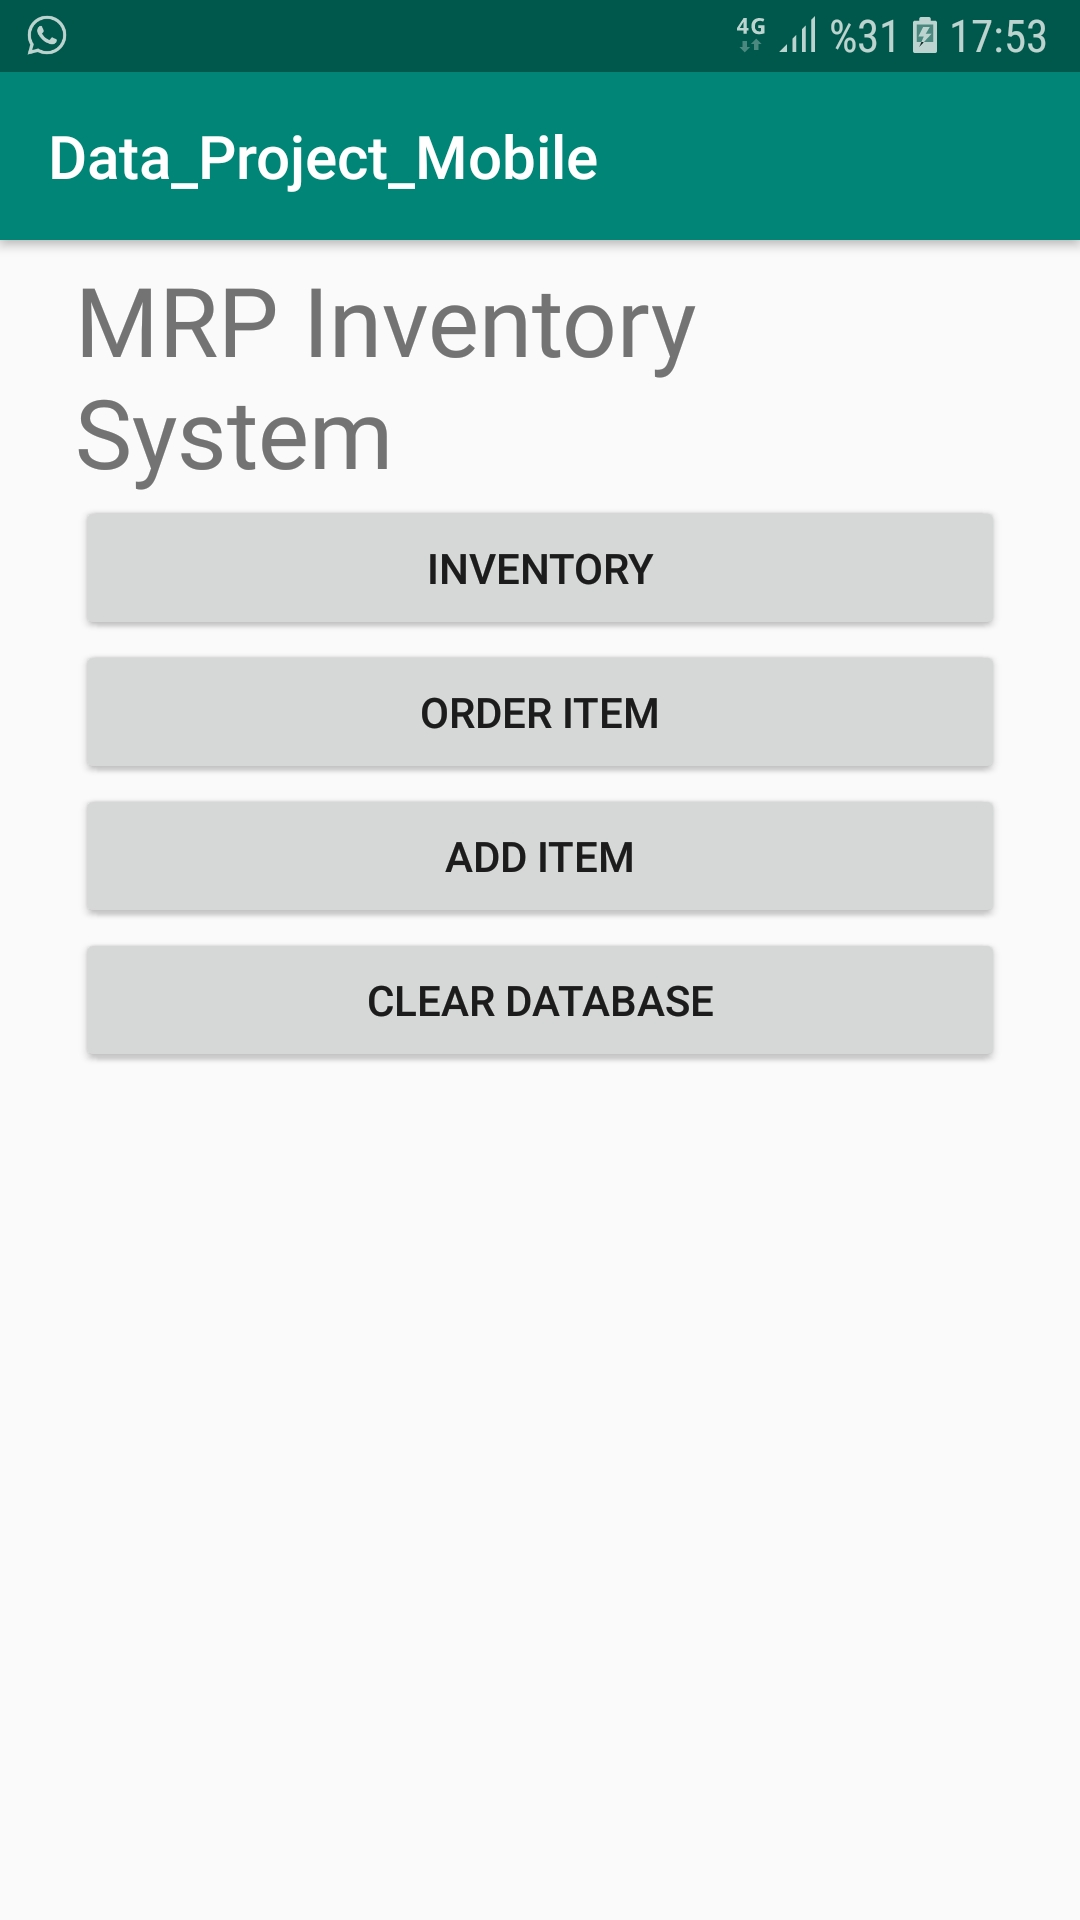
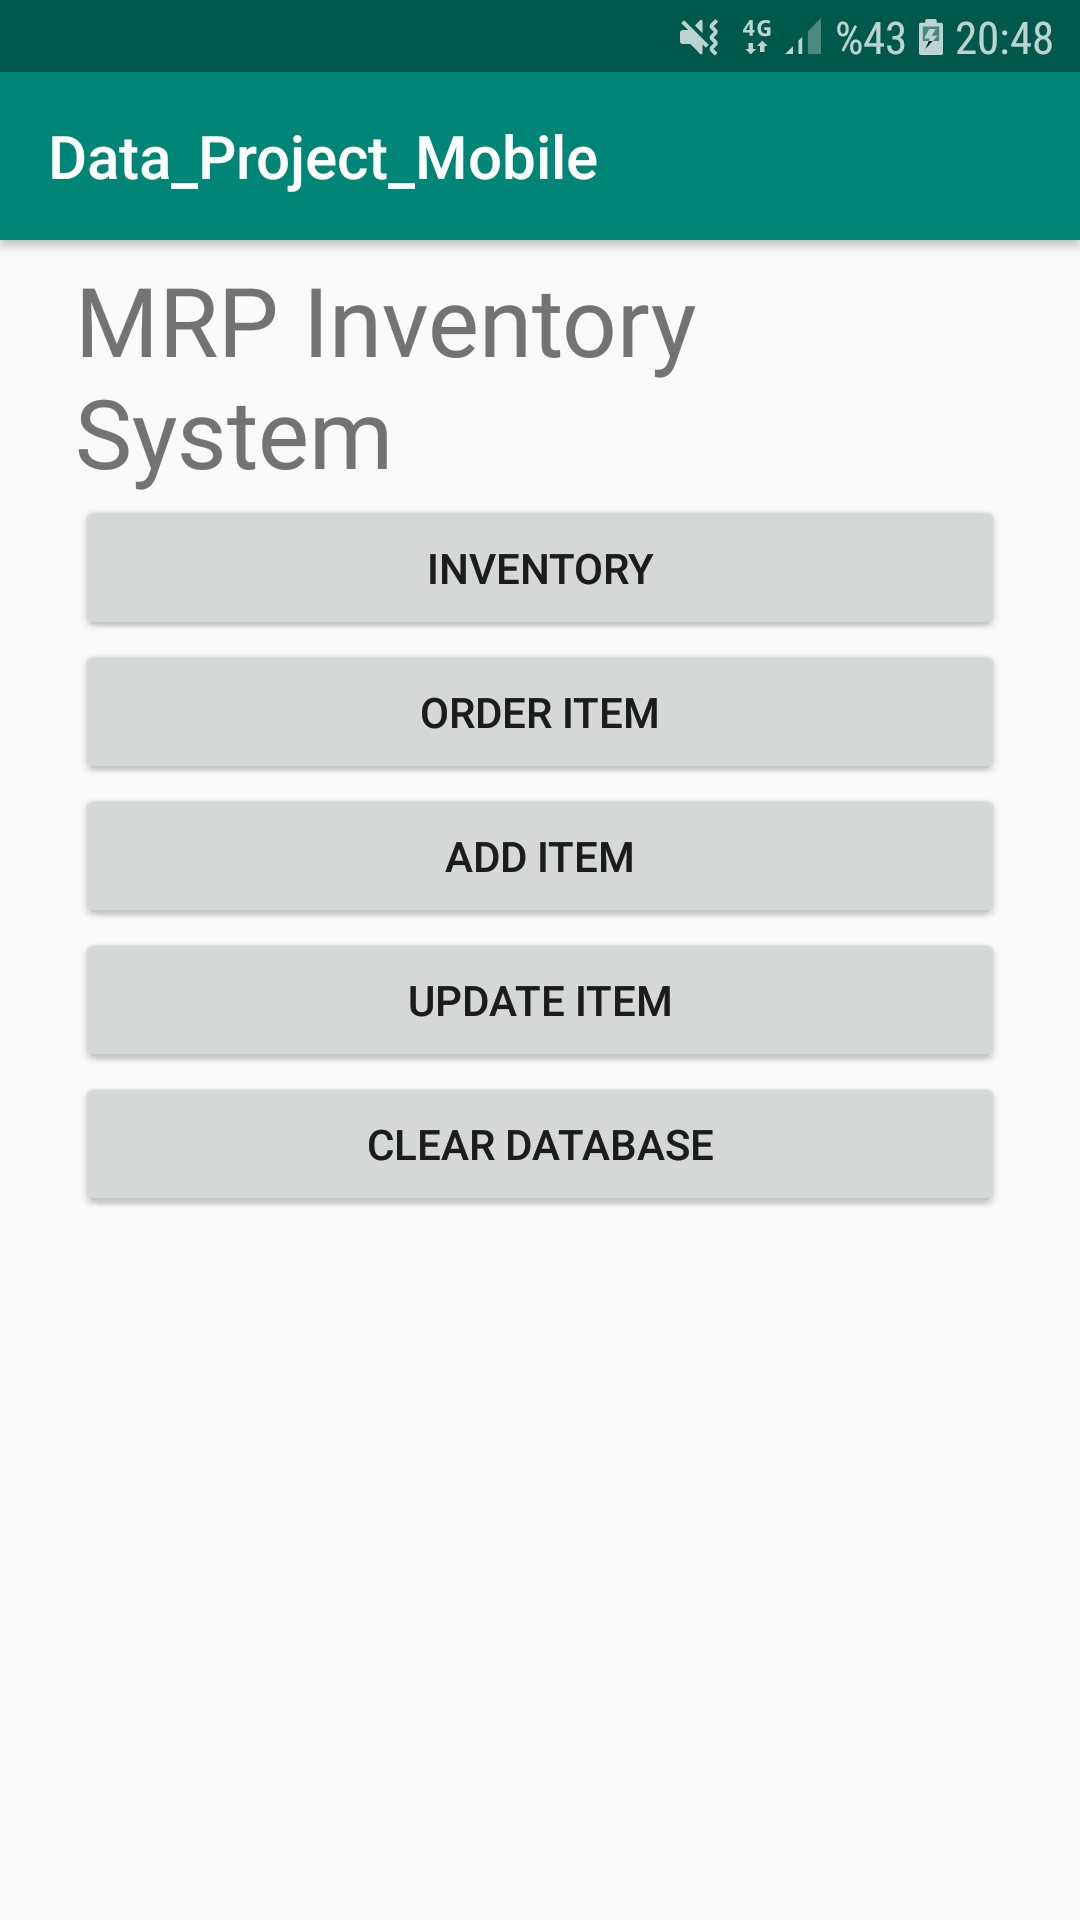
Update Page Added
You can update the item you want to update its features by entering the product item page.

diff --git a/Data_Project_Mobile/app/src/main/java/com/tohandesign/data_project_mobile/UpdItemActivity.java b/Data_Project_Mobile/app/src/main/java/com/tohandesign/data_project_mobile/UpdItemActivity.java
@@ -1,0 +1,118 @@
+package com.tohandesign.data_project_mobile;
+
+import androidx.appcompat.app.AppCompatActivity;
+
+import android.content.Intent;
+import android.os.Bundle;
+import android.util.Log;
+import android.view.View;
+import android.widget.AdapterView;
+import android.widget.ArrayAdapter;
+import android.widget.Button;
+import android.widget.EditText;
+import android.widget.Spinner;
+
+import java.util.List;
+
+public class UpdItemActivity extends AppCompatActivity {
+
+    DatabaseHelper db;
+
+    public Intent intent;
+
+    public Long MAIN_ITEM_ID;
+
+    public String itemIds[];
+
+
+    @Override
+    protected void onCreate(Bundle savedInstanceState) {
+        super.onCreate(savedInstanceState);
+        setContentView(R.layout.activity_upd_item);
+
+        db = new DatabaseHelper(getApplicationContext());
+
+
+        final EditText KEY_AON_HAND = (EditText)findViewById(R.id.KEY_AON_HAND);
+        final EditText KEY_SCH_RCP = (EditText)findViewById(R.id.KEY_SCH_RCP);
+        final EditText KEY_ARON_WEEK = (EditText)findViewById(R.id.KEY_ARON_WEEK);
+        final EditText KEY_LEAD_TIME = (EditText)findViewById(R.id.KEY_LEAD_TIME);
+        final EditText KEY_LS_RULE = (EditText)findViewById(R.id.KEY_LS_RULE);
+        final EditText KEY_REQUIRED = (EditText)findViewById(R.id.KEY_REQUIRED);
+
+
+        List<ProductItem> items = db.getAllItems();
+        // Array of choices
+        itemIds = new String[items.size()];
+        int i = 0;
+        for(ProductItem item : items) {
+            itemIds[i] = item.getItemId();
+            i++;
+        }
+
+        // Selection of the spinner
+        Spinner spinner = (Spinner) findViewById(R.id.KEY_ITEM_ID);
+
+        // Application of the Array to the Spinner
+        ArrayAdapter<String> spinnerArrayAdapter = new ArrayAdapter<String>(this,   android.R.layout.simple_spinner_item, itemIds);
+        spinnerArrayAdapter.setDropDownViewResource(android.R.layout.simple_spinner_dropdown_item); // The drop down view
+        spinner.setAdapter(spinnerArrayAdapter);
+
+
+
+
+        spinner.setOnItemSelectedListener(new AdapterView.OnItemSelectedListener() {
+            public void onItemSelected(AdapterView<?> parent, View view, int pos, long id) {
+
+                if(itemIds.length != 0) {
+                    MAIN_ITEM_ID = Long.parseLong((String) parent.getItemAtPosition(pos));
+                    ProductItem item = db.getItem(MAIN_ITEM_ID);
+                    KEY_AON_HAND.setText(String.valueOf(item.getAmountOnHand()));
+                    KEY_SCH_RCP.setText(String.valueOf(item.getScheduledReceipt()));
+                    KEY_ARON_WEEK.setText(String.valueOf(item.getArrivalOnWeek()));
+                    KEY_LEAD_TIME.setText(String.valueOf(item.getLeadTime()));
+                    KEY_LS_RULE.setText(String.valueOf(item.getLotSizingRule()));
+                    KEY_REQUIRED.setText(String.valueOf(item.getItemRequired()));
+
+                }
+
+            }
+            public void onNothingSelected(AdapterView<?> parent) {
+            }
+        });
+
+
+        Button updButton = (Button)findViewById(R.id.updItem);
+
+        updButton.setOnClickListener(new View.OnClickListener() {
+            @Override
+            public void onClick(View view) {
+
+                int AON_HAND = Integer.parseInt(String.valueOf(KEY_AON_HAND.getText()));
+                int SCH_RCP = Integer.parseInt(String.valueOf(KEY_SCH_RCP.getText()));
+                int ARON_WEEK = Integer.parseInt(String.valueOf(KEY_ARON_WEEK.getText()));
+                int LEAD_TIME = Integer.parseInt(String.valueOf(KEY_LEAD_TIME.getText()));
+                int LS_RULE = Integer.parseInt(String.valueOf(KEY_LS_RULE.getText()));
+                int REQUIRED = Integer.parseInt(String.valueOf(KEY_REQUIRED.getText()));
+                ProductItem item = new ProductItem(String.valueOf(MAIN_ITEM_ID), AON_HAND, SCH_RCP, ARON_WEEK, LEAD_TIME, LS_RULE, REQUIRED, null);
+
+                db.updateItem(item);
+
+                }
+        });
+
+
+
+
+        intent = new Intent(this, MainActivity.class);
+        Button gomain = (Button)findViewById(R.id.goMain);
+
+        gomain.setOnClickListener(new View.OnClickListener() {
+            @Override
+            public void onClick(View view) {
+                startActivity(intent);
+            }
+        });
+
+    }
+}

diff --git a/Data_Project_Mobile/app/src/main/java/com/tohandesign/data_project_mobile/MainActivity.java b/Data_Project_Mobile/app/src/main/java/com/tohandesign/data_project_mobile/MainActivity.java
@@ -14,6 +14,7 @@ public class MainActivity extends AppCompatActivity {
     public Intent invintent;
     public Intent orderintent;
     public Intent additemintent;
+    public Intent upditemintent;
     @Override
     protected void onCreate(Bundle savedInstanceState) {
 
@@ -27,6 +28,7 @@ public class MainActivity extends AppCompatActivity {
         invintent = new Intent(this, InventoryActivity.class);
         orderintent = new Intent(this, OrderItemActivity.class);
         additemintent = new Intent(this, AddItemActivity.class);
+        upditemintent = new Intent(this, UpdItemActivity.class);
 
 
         Button inventory = (Button)findViewById(R.id.inventory);
@@ -56,6 +58,15 @@ public class MainActivity extends AppCompatActivity {
             }
         });
 
+        Button updItem = (Button)findViewById(R.id.updItem);
+
+        updItem.setOnClickListener(new View.OnClickListener() {
+            @Override
+            public void onClick(View view) {
+                startActivity(upditemintent);
+            }
+        });
+
 
         Button clearDB = (Button)findViewById(R.id.clearDB);
 
@@ -72,62 +83,6 @@ public class MainActivity extends AppCompatActivity {
 
 
     }
-/*
-    public static void setItems(SharedPreferences sp, SharedPreferences.Editor editor){
-        item314amount = sp.getInt("314", 0);
-        item14127amount = sp.getInt("14127", 60);
-        item019amount = sp.getInt("019", 50);
-        item2142amount = sp.getInt("2142", 80);
-        item129amount = sp.getInt("129", 0);
-        item1118amount = sp.getInt("1118", 30);
-        item11495amount = sp.getInt("11495", 120);
-        item457amount = sp.getInt("457", 0);
-        item062amount = sp.getInt("062", 50);
-        item13122amount = sp.getInt("13122", 70);
-        item048amount = sp.getInt("048", 30);
-        item118amount = sp.getInt("118", 0);
-        item1605amount = sp.getInt("1605", 30);
-
-
-
-        item457 = new ProductItem("457", item457amount,20,2,2,1,1, new ProductItem[]{});
-        item062r2 = new ProductItem("062", item062amount,100,6,2,1,2, new ProductItem[]{});
-        item1118 = new ProductItem("1118", item1118amount,0,0,3,1,1, new ProductItem[]{});
-        item129 = new ProductItem("129", item129amount,100,8,4,40,1, new ProductItem[]{});
-        item11495 = new ProductItem("11495", item11495amount,0,0,1,50,1, new ProductItem[]{item129,item1118});
-        item13122 = new ProductItem("13122", item13122amount,70,3,1,40,1, new ProductItem[]{item457,item062r2,item11495});
-        item048 = new ProductItem("048", item048amount,0,0,3,30,1, new ProductItem[]{});
-        item118 = new ProductItem("118", item118amount,50,2,2,1,1, new ProductItem[]{});
-        item062r4 = new ProductItem("062", item062amount,100,6,2,1,4, new ProductItem[]{});
-        item14127r4 = new ProductItem("14127", item14127amount,0,0,2,50,4, new ProductItem[]{});
-        item2142 = new ProductItem("2142", item2142amount,0,0,2,100,1, new ProductItem[]{});
-        item019 = new ProductItem("019", item019amount,40,5,2,50,1, new ProductItem[]{});
-        item14127r6 = new ProductItem("14127", item14127amount,0,0,2,50,6, new ProductItem[]{});
-        item314 = new ProductItem("314", item314amount,50,5,1,50,1, new ProductItem[]{item2142, item019, item14127r6});
-        item1605 = new ProductItem("1605", item1605amount,0,0,1,1,1, new ProductItem[]{item13122,item048,item118,item062r4,item14127r4,item314});
-
-
-    }
-
-
-    public static void saveItems(ProductItem item, SharedPreferences sp, SharedPreferences.Editor editor){
-
-        editor.putInt(item.getItemId(), item.getAmountOnHand());
-        editor.commit();
-
-        if(item.getChilds().length !=0) {
-            for(int i = 0; i<item.getChilds().length;i++){
-                saveItems(item.getChilds(i ),sp,editor);
-            }
-        }
-
-    }
-*/
-
-
-
-
-
 
 
 

diff --git a/Data_Project_Mobile/app/src/main/java/com/tohandesign/data_project_mobile/DatabaseHelper.java b/Data_Project_Mobile/app/src/main/java/com/tohandesign/data_project_mobile/DatabaseHelper.java
@@ -263,8 +263,26 @@ public class DatabaseHelper extends SQLiteOpenHelper {
         return db.update(TABLE_ITEM, values, KEY_ITEM_ID + " = ?",
                 new String[] { String.valueOf(item.getItemId()) });
     }
+    //#Updating a amount on hand
 
 
+    //Updating Item
+    public int updateItem(ProductItem item) {
+        SQLiteDatabase db = this.getWritableDatabase();
+
+        ContentValues values = new ContentValues();
+        values.put(KEY_AON_HAND, item.getAmountOnHand());
+        values.put(KEY_SCH_RCP, item.getScheduledReceipt());
+        values.put(KEY_ARON_WEEK, item.getArrivalOnWeek());
+        values.put(KEY_LEAD_TIME, item.getLeadTime());
+        values.put(KEY_LS_RULE, item.getLotSizingRule());
+        values.put(KEY_REQUIRED, item.getItemRequired());
+
+        // updating row
+        return db.update(TABLE_ITEM, values, KEY_ITEM_ID + " = ?",
+                new String[] { String.valueOf(item.getItemId()) });
+    }
+    //#Updating Item
 
 
     // closing database

diff --git a/README.md b/README.md
@@ -1,9 +1,10 @@
 
 
 
+
 #  Advanced Mobile Inventory System <img src="http://img.shields.io/badge/-Java-F89820?style=flat&logo=java&logoColor=white">
 
-<img src = "/images/1.jpg" height="25%" width="25%"><img src = "/images/2.jpg" height="25%" width="25%"><img src = "/images/3.jpg" height="25%" width="25%"><img src = "/images/4.jpg" height="25%" width="25%">
+<img src = "/images/1.jpg" height="20%" width="20%"><img src = "/images/2.jpg" height="20%" width="20%"><img src = "/images/3.jpg" height="20%" width="20%"><img src = "/images/4.jpg" height="20%" width="20%"><img src = "/images/5.jpg" height="20%" width="20%">
 <br/>
 
 I developed a mobile app that takes bill of material and the gross requirements of the end item along with the stock, scheduled receipt, arrival on week, lead time and lot sizing rule information of the subcomponents to create MRP records for all parts and components.
@@ -16,7 +17,7 @@ This project has been developed using the **sqlite database**.
 ## System Operation
 
   
-There are 4 buttons in the main activity of application. These are **"INVENTORY"**, **"ORDER ITEM"**, **"ADD ITEM"** and **"CLEAR DATABASE"** buttons.
+There are 5 buttons in the main activity of application. These are **"INVENTORY"**, **"ORDER ITEM"**, **"ADD ITEM"**, **"UPDATE ITEM"** and **"CLEAR DATABASE"** buttons.
 
 ### "INVENTORY" button
 When the button is pressed, the inventory page opens and you can see the current stock status.
@@ -41,6 +42,12 @@ When the button is pressed, the product adding page opens and when you fill in t
 >The value in the **spinner** indicates which product is the main product of the product to be added
 
 <br/><img src = "/images/4.jpg" height="30%" width="30%">
+
+### "UPDATE ITEM" button  
+When the button is pressed, the product updating page opens and when you fill in the required fields, the product is updated.
+>  Required fields are automatically filled according to the value you choose in the spinner
+
+<br/><img src = "/images/5.jpg" height="30%" width="30%">
 
 ### "CLEAR DATABASE" button
 When the button is pressed, it deletes all records in the system.
